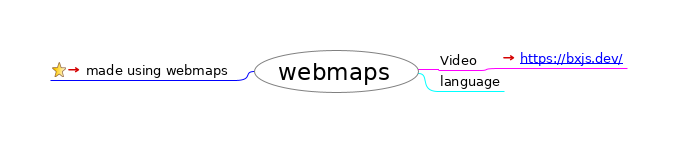
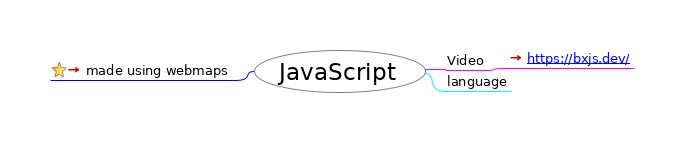
DEFAULT_MESSAGE

diff --git a/index.html b/index.html
@@ -1,5 +1,5 @@
 <?xml version="1.0" encoding="UTF-8"?><!DOCTYPE html PUBLIC "-//W3C//DTD XHTML 1.1//EN" "http://www.w3.org/TR/xhtml11/DTD/xhtml11.dtd">
-<html xmlns="http://www.w3.org/1999/xhtml"><meta http-equiv="Content-Type" content="text/html; charset=UTF-8" /><!--This file has been created with freeplane2html.xsl--><head><title>webmaps</title><link rel="stylesheet" href="index.html_files/freeplane2html.css" type="text/css" /><meta name="generator" content="Freeplane-XSL Stylesheet (see: http://freeplane-xsl.dev.slash-me.net/ for details)" /><script type="text/javascript" src="index.html_files/freeplane2html.js"> 
+<html xmlns="http://www.w3.org/1999/xhtml"><meta http-equiv="Content-Type" content="text/html; charset=UTF-8" /><!--This file has been created with freeplane2html.xsl--><head><title>JavaScript</title><link rel="stylesheet" href="index.html_files/freeplane2html.css" type="text/css" /><meta name="generator" content="Freeplane-XSL Stylesheet (see: http://freeplane-xsl.dev.slash-me.net/ for details)" /><script type="text/javascript" src="index.html_files/freeplane2html.js"> 
 	</script><script type="text/javascript"><!--
           
                function toggle(id)
@@ -23,14 +23,14 @@
                    };
                };
           
-          --></script></head><body><h1>webmaps</h1><div style="width:96%;  padding:2%;  margin-bottom:10px;  border: 0px;  text-align:center;  vertical-align:center;"><img src="index.html_files/image.png" style="margin-bottom:10px; &#9;border: 0px; &#9;text-align:center; &#9;vertical-align:center;" alt="Imagemap" usemap="#fm_imagemap" /></div><map name="fm_imagemap" id="fm_imagemap"><area shape="rect" href="#FMID_110073400FM" alt="webmaps" title="webmaps" coords="254,50,419,93" />
+          --></script></head><body><h1>JavaScript</h1><div style="width:96%;  padding:2%;  margin-bottom:10px;  border: 0px;  text-align:center;  vertical-align:center;"><img src="index.html_files/image.png" style="margin-bottom:10px; &#9;border: 0px; &#9;text-align:center; &#9;vertical-align:center;" alt="Imagemap" usemap="#fm_imagemap" /></div><map name="fm_imagemap" id="fm_imagemap"><area shape="rect" href="#FMID_110073400FM" alt="JavaScript" title="JavaScript" coords="254,50,426,93" />
 <area shape="rect" href="#FMID_634574866FM" alt="made using webmaps" title="made using webmaps" coords="50,62,235,80" />
-<area shape="rect" href="#FMID_849215328FM" alt="Video" title="Video" coords="438,52,480,70" />
-<area shape="rect" href="#FMID_1384859362FM" alt="https://bxjs.dev/ " title="https://bxjs.dev/ " coords="499,50,627,68" />
-<area shape="rect" href="#FMID_1566689685FM" alt="language" title="language" coords="438,73,504,91" />
+<area shape="rect" href="#FMID_849215328FM" alt="Video" title="Video" coords="445,52,487,70" />
+<area shape="rect" href="#FMID_1384859362FM" alt="https://bxjs.dev/ " title="https://bxjs.dev/ " coords="506,50,634,68" />
+<area shape="rect" href="#FMID_1566689685FM" alt="language" title="language" coords="445,73,511,91" />
 </map>
 
-<div class="node"><img src="index.html_files/hide.png" class="hideshow" alt="hide" onClick="toggle(&quot;N65543&quot;)" id="imgN65543" /><a id="FMID_110073400FM" /><div class="nodecontent" style="color:#000000;font-size:150%;">webmaps</div><div class="content" id="N65543"><div class="node"><img src="index.html_files/leaf.png" class="hideshow" alt="leaf" /><img src="index.html_files/icons/bookmark.svg" alt="bookmark" /> <a id="FMID_634574866FM" /><div class="nodecontent" style="color:#000000;font-size:83%;"><a href="https://github.com/solidpayorg/webmaps/">made using webmaps</a> <a href="https://github.com/solidpayorg/webmaps/"><img src="index.html_files/ilink.png" alt="User Link" style="border-width:0" /></a></div></div><div class="node"><img src="index.html_files/hide.png" class="hideshow" alt="hide" onClick="toggle(&quot;N66482&quot;)" id="imgN66482" /><a id="FMID_849215328FM" /><div class="nodecontent" style="color:#000000;font-size:83%;">Video</div><div class="content" id="N66482"><div class="node"><img src="index.html_files/leaf.png" class="hideshow" alt="leaf" /><a id="FMID_1384859362FM" /><div class="nodecontent" style="color:#000000;font-size:83%;"><a href="https://bxjs.dev/">
+<div class="node"><img src="index.html_files/hide.png" class="hideshow" alt="hide" onClick="toggle(&quot;N65543&quot;)" id="imgN65543" /><a id="FMID_110073400FM" /><div class="nodecontent" style="color:#000000;font-size:150%;">JavaScript</div><div class="content" id="N65543"><div class="node"><img src="index.html_files/leaf.png" class="hideshow" alt="leaf" /><img src="index.html_files/icons/bookmark.svg" alt="bookmark" /> <a id="FMID_634574866FM" /><div class="nodecontent" style="color:#000000;font-size:83%;"><a href="https://github.com/solidpayorg/webmaps/">made using webmaps</a> <a href="https://github.com/solidpayorg/webmaps/"><img src="index.html_files/ilink.png" alt="User Link" style="border-width:0" /></a></div></div><div class="node"><img src="index.html_files/hide.png" class="hideshow" alt="hide" onClick="toggle(&quot;N66482&quot;)" id="imgN66482" /><a id="FMID_849215328FM" /><div class="nodecontent" style="color:#000000;font-size:83%;">Video</div><div class="content" id="N66482"><div class="node"><img src="index.html_files/leaf.png" class="hideshow" alt="leaf" /><a id="FMID_1384859362FM" /><div class="nodecontent" style="color:#000000;font-size:83%;"><a href="https://bxjs.dev/">
     <a http-equiv="content-type" content="text/html; charset=utf-8" href="https://bxjs.dev/">https://bxjs.dev/</a> 
   </a> <a href="https://bxjs.dev/"><img src="index.html_files/ilink.png" alt="User Link" style="border-width:0" /></a></div></div></div></div><div class="node"><img src="index.html_files/leaf.png" class="hideshow" alt="leaf" /><a id="FMID_1566689685FM" /><div class="nodecontent" style="color:#000000;font-size:83%;">language</div></div></div></div>
 </body></html>

diff --git a/index.mm b/index.mm
@@ -1,6 +1,6 @@
 <map version="freeplane 1.7.0">
 <!--To view this file, download free mind mapping software Freeplane from http://freeplane.sourceforge.net -->
-<node TEXT="webmaps" FOLDED="false" ID="ID_110073400" CREATED="1570292852860" MODIFIED="1570292856495" STYLE="oval">
+<node TEXT="JavaScript" FOLDED="false" ID="ID_110073400" CREATED="1570292852860" MODIFIED="1570476189689" STYLE="oval">
 <font SIZE="18"/>
 <hook NAME="MapStyle">
     <properties edgeColorConfiguration="#808080ff,#ff0000ff,#0000ffff,#00ff00ff,#ff00ffff,#00ffffff,#7c0000ff,#00007cff,#007c00ff,#7c007cff,#007c7cff,#7c7c00ff" fit_to_viewport="false"/>
